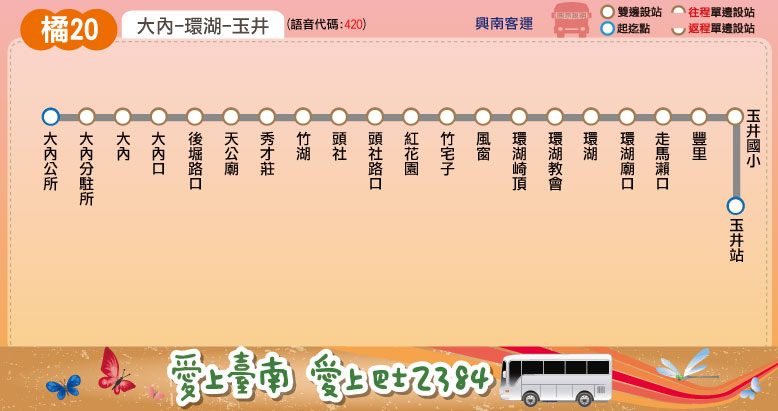
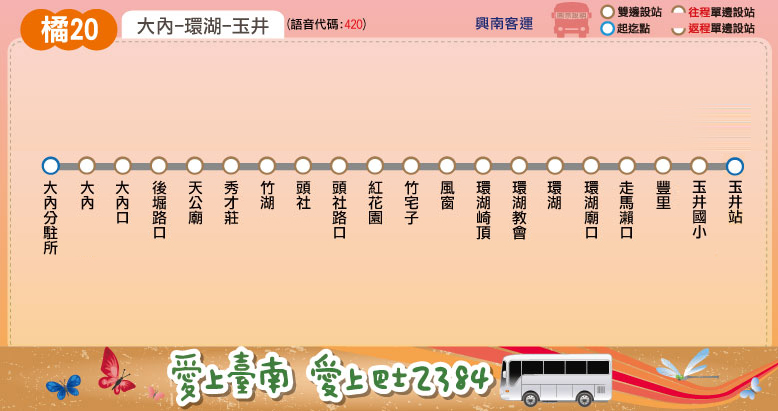
update: b24,g14,g16,g17,br,br2,o2,o20,r3,3r,y,y13 lack route map:r3,r4

Changed region(s): [[0.0308, 0.2628, 0.9871, 0.6423]]

diff --git a/route/fare_and_time/green_17.js b/route/fare_and_time/green_17.js
@@ -25,10 +25,12 @@ green_17_fare = [
 // format = [time at the start stop] or
 // [time, other] or
 // [time, start_stop, end_stop, other]
-green_17_main_stop_name = ["安平<br />工業區","臺南站","臺南<br />火車站","崑山<br />大學","大灣","西勢里","竹子腳<br />(大灣)","新化"];
-green_17_main_stop_time_consume = [0, 10, 20, 32, 38, 42, 46, 50];
-green_17_important_stop = [0, 2, 3, 7]; // 安平工業區, 臺南火車站, 崑山大學, 新化
-green_17_time_go = [["06:10"],["07:10"],["08:10"],["09:10"],["10:10"],["11:10"],["12:10"],["12:40"],["13:10"],["14:10"],["15:10"],
-["16:10"],["16:40"],["17:10"],["17:40"],["18:40"],["19:40"],["20:40"],["21:10"],["21:25"]];
-green_17_time_return = [["06:10"],["06:30"],["07:10"],["08:15"],["09:15"],["09:45"],["10:45"],["11:45"],["12:15"],["12:45"],["13:15"],
-["14:15"],["15:15"],["16:15"],["17:15"],["17:45"],["18:15"],["19:15"],["20:15"],["21:00"]];
+green_17_main_stop_name = ["安平<br />工業區","臺南站","臺南<br />火車站","崑山<br />大學","大灣","大灣<br />高中","西勢里","竹子腳<br />(大灣)","新化"];
+green_17_main_stop_time_consume = [0, 10, 20, 32, 38, 40, 42, 46, 50];
+green_17_important_stop = [0, 2, 3, 8]; // 安平工業區, 臺南火車站, 崑山大學, 新化
+green_17_time_go = [["06:10",[5]],["06:30",0,5,[4]],["07:10",[5]],["08:10",[5]],["09:10",[5]],["09:30",0,5,[4]],["10:10",[5]],["11:10",[5]],
+["11:30",0,5,[4]],["12:10",[5]],["12:40",[5]],["13:10",[5]],["13:30",0,5,[4]],["14:10",[5]],["15:10",[5]],["16:10",[5]],["16:25",0,5,[4]],["16:40",[5]],
+["17:10",[5]],["17:40",[5]],["18:40",[5]],["19:00",0,5,[4]],["19:40",[5]],["20:30",0,5,[4]],["20:40",[5]],["21:10",[5]],["21:25",[5]]];
+green_17_time_return = [["06:10",[5]],["06:30",[5]],["07:20",5,0],["07:10",[5]],["08:15",[5]],["09:15",[5]],["09:45",[5]],["10:20",5,0],
+["10:45",[5]],["11:45",[5]],["12:20",5,0],["12:15",[5]],["12:45",[5]],["13:15",[5]],["14:20",5,0],["14:15",[5]],["15:15",[5]],
+["16:15",[5]],["17:15",5,0],["17:15",[5]],["17:45",[5]],["18:15",[5]],["19:15",[5]],["19:50",5,0],["20:15",[5]],["21:00",[5]],["21:40",5,0]];

diff --git a/route/fare_and_time/green_16.js b/route/fare_and_time/green_16.js
@@ -26,9 +26,9 @@ green_16_fare = [
 green_16_main_stop_name = ["新化","統一花園","加州新城","山西宮","關廟","歸仁公所","高鐵<br />臺南站"];
 green_16_main_stop_time_consume = [0, 5, 4, 19, 20, 25, 40];
 green_16_important_stop = [0, 4, 6]; // 新化, 關廟, 高鐵臺南站
-green_16_time_go = [["05:50",0,5,[1]],["07:00",0,4,[[2,5]]],["08:20",[1]],["10:00",0,4,[1]],["11:00",[1]],["12:00",0,4,[[2,5]]],
-["13:00",0,4,[1]],["13:50",0,4,[1]],["14:00",[1]],["15:00",0,4,[1]],["16:00",0,4,[1]],["17:10",0,4,[[2,5]]],["18:40",[1]],
+green_16_time_go = [["05:50",0,5,[1,'豐']],["07:00",0,4,[[2,5]]],["08:20",[1]],["10:00",0,4,[1]],["11:00",[1]],["12:00",0,4,[[2,5]]],
+["13:00",0,4,[1]],["13:50",0,4,[1]],["14:00",[1]],["15:00",0,4,[1]],["16:00",0,4,[1]],["17:25",0,4,[[2,5]]],["18:55",[1]],
 ["19:10",0,4,[1]],["20:00",0,4,[1]],["21:00",0,4,[1]]];
-green_16_time_return = [["06:15",5,0,[1]],["07:25",4,0,[[1,5]]],["09:00",[1]],["09:30",4,0,[1]],["10:20",4,0,[1]],["11:40",[1]],
-["12:25",4,0,[[1,5]]],["13:20",4,0,[1]],["14:40",[1]],["15:20",4,0,[1]],["16:20",4,0,[1]],["17:35",4,0,[[1,5]]],
-["19:20",[1]],["19:30",4,0,[1]],["20:20",4,0,[1]],["21:20",4,0,[1]]];
+green_16_time_return = [["06:15",5,0,[1,'豐']],["07:25",4,0,[[1,5]]],["09:00",[1]],["09:30",4,0,[1]],["10:20",4,0,[1]],["11:40",[1]],
+["12:25",4,0,[[1,5]]],["13:20",4,0,[1]],["14:40",[1]],["15:20",4,0,[1]],["16:20",4,0,[1]],["17:50",4,0,[[1,5]]],["19:30",4,0,[1]],
+["19:35",[1]],["20:20",4,0,[1]],["21:20",4,0,[1]]];

diff --git a/route/fare_and_time/red_3.js b/route/fare_and_time/red_3.js
@@ -1,6 +1,6 @@
 red_3_interval_name = ["臺南","臺南<br />航空站","臺南<br />都會公園","保安<br />轉運站","嘉南科大","保安","中洲","大潭","武東","高鐵<br />臺南站","六甲","歸仁","關廟"];
 red_3_interval_stop = [
-["臺南公園(公園路)","臺南火車站","中山、民權路口","開山路","延平郡王祠","聯合報","大林新城","大林","亞伯大飯店","生產路口","大同、機場路口"], // 臺南
+["臺南公園(公園路)","臺南火車站","中山、民權路口","開山路","延平郡王祠","聯合報","大林新城","忠孝新村","大林","亞伯大飯店","生產路口","大同、機場路口"], // 臺南
 ["牛稠仔","臺南空軍基地","臺南航空站"], // 臺南航空站
 ["臺南都會公園"], // 臺南都會公園
 ["十鼓文化村","保安轉運站"], // 保安轉運站
@@ -14,7 +14,7 @@ red_3_interval_stop = [
 ["上帝廟","南興里","南保","姓李仔","後市","歸仁公所","歸仁市場","善化寺","看東里","修元堂","歸仁交流道"], // 歸仁
 ["大亞公司","關廟站"] // 關廟
 ];
-red_3_stop_time_consume = [0,5,7,9,10,12,14,15,17,17,18,19,19,20,23,27,28,31,34,35,36,37,38,39,40,41,42,43,46,48,50,60,62,
+red_3_stop_time_consume = [0,5,7,9,10,12,14,15,16,17,17,18,19,19,20,23,27,28,31,34,35,36,37,38,39,40,41,42,43,46,48,50,60,62,
 65,66,67,68,69,70,71,71,72,73,74,74,75];
 red_3_fare = [
 [26],

diff --git a/route/fare_and_time/orange_20.js b/route/fare_and_time/orange_20.js
@@ -1,12 +1,12 @@
 orange_20_interval_name = ["大內","頭社","環湖","走馬瀨","玉井"];
 orange_20_interval_stop = [
-["大內公所","大內分駐所","大內","大內口","後堀路口"], // 大內
+["大內分駐所","大內","大內口","後堀路口"], // 大內
 ["天公廟","秀才莊","竹湖","頭社","頭社路口"], // 頭社
 ["紅花園","竹宅子","風窗","環湖崎頂","環湖教會","環湖","環湖廟口"], // 環湖
 ["走馬瀨口","豐里"], // 走馬瀨
 ["玉井國小","玉井站"] // 玉井
 ];
-orange_20_stop_time_consume = [0,1,2,3,4,5,6,7,12,13,14,15,16,18,19,20,21,27,29,33,35];
+orange_20_stop_time_consume = [0,1,2,3,4,5,6,11,12,13,14,15,17,18,19,20,27,29,33,35];
 orange_20_fare = [
 [26],
 [26,26],
@@ -17,7 +17,7 @@ orange_20_fare = [
 // format = [time at the start stop] or
 // [time, other] or
 // [time, start_stop, end_stop, other]
-orange_20_main_stop_name = ["大內公所","頭社","環湖","走馬瀨口","玉井"];
+orange_20_main_stop_name = ["大內<br />分駐所","頭社","環湖","走馬瀨口","玉井"];
 orange_20_main_stop_time_consume = [0, 12, 20, 27, 35];
 orange_20_important_stop = [0, 2, 4]; // 大內公所, 環湖, 玉井
 orange_20_time_go = [["07:45"],["10:45"],["12:25"],["15:45"],["17:20"]];

diff --git a/route/fare_and_time/brown.js b/route/fare_and_time/brown.js
@@ -41,9 +41,9 @@ brown_main_stop_time_consume = [0, 3, 8, 18, 26, 33, 33, 43, 53, 60];
 brown_important_stop = [0, 3, 7, 9]; // 新營, 鹽水, 學甲, 佳里
 brown_time_go = [["06:05",[6]],["06:35",[5]],["07:05",[6]],["07:35",[6]],["08:05",[5]],["08:35",[6]],["09:05",[6]],["09:35",[6]],
 ["10:05",[5]],["10:35",[6]],["11:05",[6]],["11:35",[6]],["12:05",[6]],["12:35",[5]],["13:05",[6]],["14:05",[6]],["14:35",[5]],
-["15:05",[6]],["15:35",[6]],["16:05",[6]],["16:35",[6]],["17:05",[5]],["17:35",[6]],["18:05",[6]],["19:05",[6]],["20:05",[6]]
+["15:05",[6]],["15:35",[6]],["16:05",[6]],["16:35",[6]],["17:05",[5]],["17:10",0,3],["17:35",[6]],["18:05",[6]],["19:05",[6]],["20:05",[6]]
 ];
 brown_time_return = [["06:05",[6]],["06:35",[5]],["07:05",[6]],["07:35",[6]],["08:05",[5]],["08:35",[6]],["09:05",[6]],["09:35",[6]],
 ["10:05",[5]],["10:35",[6]],["11:05",[6]],["11:35",[5]],["12:05",[6]],["12:35",[6]],["13:05",[6]],["14:05",[5]],["14:35",[6]],
-["15:05",[6]],["15:35",[6]],["16:05",[5]],["16:35",[6]],["17:05",[6]],["17:35",[6]],["18:05",[5]],["19:05",[6]],["20:05",[6]]
+["15:05",[6]],["15:35",[6]],["16:05",[5]],["16:35",[6]],["17:35",3,0],["17:05",[6]],["17:35",[6]],["18:05",[5]],["19:05",[6]],["20:05",[6]]
 ];

diff --git a/route/fare_and_time/orange_2.js b/route/fare_and_time/orange_2.js
@@ -8,9 +8,9 @@ orange_2_interval_stop = [
 ["茄拔(省道)","北茄拔"], // 茄拔
 ["肉品市場","新中"], // 新中
 ["日新","又新"], // 日新
-["石子瀨","大內公所","大內分駐所","大內"] // 大內
+["石子瀨","大內公所","大內分駐所"] // 大內
 ];
-orange_2_stop_time_consume = [0,3,8,10,11,13,16,17,18,23,24,25,26,28,29,30,32,35,36,37,38,39,40];
+orange_2_stop_time_consume = [0,3,8,10,11,13,16,17,18,23,24,25,26,28,29,30,33,36,37,38,39,40];
 orange_2_fare = [
 [26],
 [26,26],
@@ -25,7 +25,7 @@ orange_2_fare = [
 // format = [time at the start stop] or
 // [time, other] or
 // [time, start_stop, end_stop, other]
-orange_2_main_stop_name = ["胡厝寮","什乃","善化<br />火車站","善化<br />啤酒廠","新中","大內<br />公所","大內"];
+orange_2_main_stop_name = ["胡厝寮","什乃","善化<br />火車站","善化<br />啤酒廠","新中","大內<br />公所","大內<br />分駐所"];
 orange_2_main_stop_time_consume = [0, 8, 18, 26, 32, 38, 40];
 orange_2_important_stop = [0, 2, 5, 6]; // 胡厝寮, 善化火車站, 大內公所, 大內
 orange_2_time_go = [["07:00"],["10:00"],["11:40"],["15:00"],["16:35"]];

diff --git a/route/fare_and_time/red_4.js b/route/fare_and_time/red_4.js
@@ -1,13 +1,13 @@
 red_4_interval_name = ["臺南","文化","後壁厝","保安","保安<br />轉運站","臺南<br />都會公園"];
 red_4_interval_stop = [
-["臺南公園(公園路)","臺南火車站","東門圓環","胸腔病院","聯合報","大林新城","大林"], // 臺南
+["臺南公園(公園路)","臺南火車站","東門圓環","胸腔病院","聯合報","大林新城","忠孝新村","大林"], // 臺南
 ["巴克禮公園","崇德路","市立醫院","東區電信局","第一分局","德高國小"], // 文化
 ["中華醫事科技大學","仁德國中","後壁厝","三塊厝","鉅全公司","蔦松腳","田厝"], // 後壁厝
 ["奇美公司","保安工業區","保安宮"], // 保安
 ["保安轉運站","十鼓文化村"], // 保安轉運站
 ["臺南都會公園"] // 臺南都會公園
 ];
-red_4_stop_time_consume = [0,5,8,9,10,12,13,17,19,20,21,24,26,30,33,36,37,38,39,40,41,42,43,45,46,50];
+red_4_stop_time_consume = [0,5,8,9,10,12,13,14,17,19,20,21,24,26,30,33,36,37,38,39,40,41,42,43,45,46,50];
 red_4_fare = [
 [26],
 [26,26],

diff --git a/orange/orange_2.html b/orange/orange_2.html
@@ -146,10 +146,10 @@ select.get_fare option.option6
 		<span class="byline">Tainan Bus Orange 2, Bus schedule</span> </div>
 	<div class="content">
 		<script language="javascript">
-			document.write('<h2><font color="orange">胡厝寮-&gt;大內</font></h2>');
+			document.write('<h2><font color="orange">胡厝寮-&gt;大內分駐所</font></h2>');
 			create_time_schedule(orange_2_main_stop_name, orange_2_main_stop_time_consume, orange_2_important_stop, orange_2_time_go, false);
 			document.write('<p>　</p>');
-			document.write('<h2><font color="orange">大內-&gt;胡厝寮</font></h2>');
+			document.write('<h2><font color="orange">大內分駐所-&gt;胡厝寮</font></h2>');
 			create_time_schedule(orange_2_main_stop_name, orange_2_main_stop_time_consume, orange_2_important_stop, orange_2_time_return, true);
 			document.write(TimeScheduleMSG);
 		</script>

diff --git a/orange/orange_20.html b/orange/orange_20.html
@@ -146,10 +146,10 @@ select.get_fare option.option6
 		<span class="byline">Tainan Bus Orange 20, Bus schedule</span> </div>
 	<div class="content">
 		<script language="javascript">
-			document.write('<h2><font color="orange">大內-&gt;玉井</font></h2>');
+			document.write('<h2><font color="orange">大內分駐所-&gt;玉井</font></h2>');
 			create_time_schedule(orange_20_main_stop_name, orange_20_main_stop_time_consume, orange_20_important_stop, orange_20_time_go, false);
 			document.write('<p>　</p>');
-			document.write('<h2><font color="orange">玉井-&gt;大內</font></h2>');
+			document.write('<h2><font color="orange">玉井-&gt;大內分駐所</font></h2>');
 			create_time_schedule(orange_20_main_stop_name, orange_20_main_stop_time_consume, orange_20_important_stop, orange_20_time_return, true);
 			document.write(TimeScheduleMSG);
 		</script>

diff --git a/tools/transfer_information.js b/tools/transfer_information.js
@@ -178,7 +178,7 @@ transfer_madou = '<tr><th rowspan="2">果菜市場</th>'
 + '<tr><td style="text-align: center"><img src="' + LOGO_DIR_PATH + 'yellow_transfer_logo.png"></td>'
 	+ '<td id="yellow"><a href="../yellow/yellow.html" target="_blank">黃幹線</a>、<a href="../yellow/yellow_20.html" target="_blank">黃20</a></td></tr>';
 
-transfer_dane_district_office = '<tr><th>大內公所</th>'
+transfer_dane_district_office = '<tr><th>大內分駐所</th>'
 + '<td style="text-align: center"><img src="' + LOGO_DIR_PATH + 'orange_transfer_logo.png"></td>'
 	+ '<td id="orange"><a href="../orange/orange.html" target="_blank">橘幹線</a>、<a href="../orange/orange_1.html" target="_blank">橘1</a>、<a href="../orange/orange_2.html" target="_blank">橘2</a>、<a href="../orange/orange_20.html" target="_blank">橘20</a></td></tr>';
 

diff --git a/route/fare_and_time/yellow.js b/route/fare_and_time/yellow.js
@@ -45,6 +45,6 @@ yellow_time_go = [["06:00",[1]],["06:20",0,2,[1]],["06:30",[1]],["06:45",0,3,[1]
 ];
 yellow_time_return = [["06:20",2,0,[1]],["06:45",2,0,[1]],["06:50",2,0,[1]],["06:00",['繞',1]],["06:30",[1]],["07:55",2,0],
 ["07:30"],["08:55",2,0],["08:30"],["09:55",2,0],["09:30"],["10:55",2,0],["10:30"],["11:55",2,0],["11:30"],["12:55",2,0],
-["12:30"],["13:55",2,0],["13:30"],["14:55",2,0],["14:30"],["15:55",2,0],["15:30"],["16:30",2,0],["17:00",2,0],["16:30",[1]],
-["17:55",2,0,[1]],["17:30",[1]],["18:00",[1]],["19:00",[1]],["20:00",[1]]
+["12:30"],["13:55",2,0],["13:30"],["14:55",2,0],["14:30"],["15:55",2,0],["15:30"],["16:30",2,0],["17:00",2,0],["16:40",[1]],
+["17:40",2,0,[1]],["17:30",[1]],["18:00",[1]],["19:00",[1]],["20:00",[1]]
 ];

diff --git a/route/fare_and_time/green_14.js b/route/fare_and_time/green_14.js
@@ -14,5 +14,5 @@ green_14_fare = [
 green_14_main_stop_name = ["新化","新化高工","高爾夫<br />球場","礁坑里<br />活動中心","三十六崙","九層嶺"];
 green_14_main_stop_time_consume = [0, 2, 6, 15, 16, 20];
 green_14_important_stop = [0, 5]; // 新化, 九層嶺
-green_14_time_go = [["06:00"],["07:20"],["09:50"],["11:20"],["14:20"],["16:10"],["18:00"]];
-green_14_time_return = [["06:20"],["07:40"],["10:10"],["11:40"],["14:40"],["16:30"],["18:20"]];
+green_14_time_go = [["06:00"],["07:20"],["09:50"],["11:20"],["14:20"],["16:10"],["18:15"]];
+green_14_time_return = [["06:20"],["07:40"],["10:10"],["11:40"],["14:40"],["16:30"],["18:35"]];
